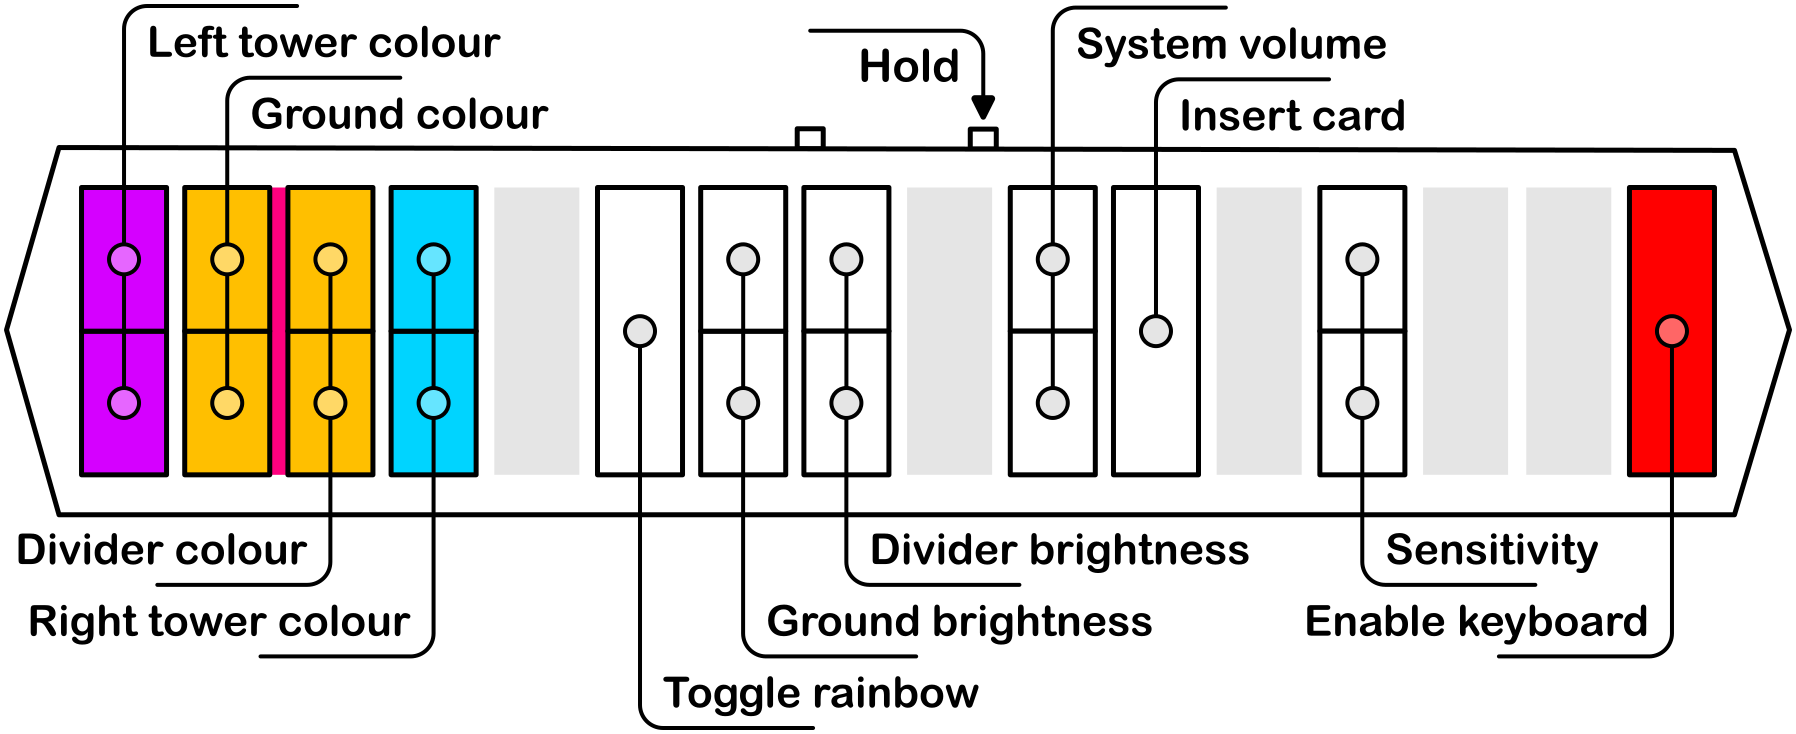
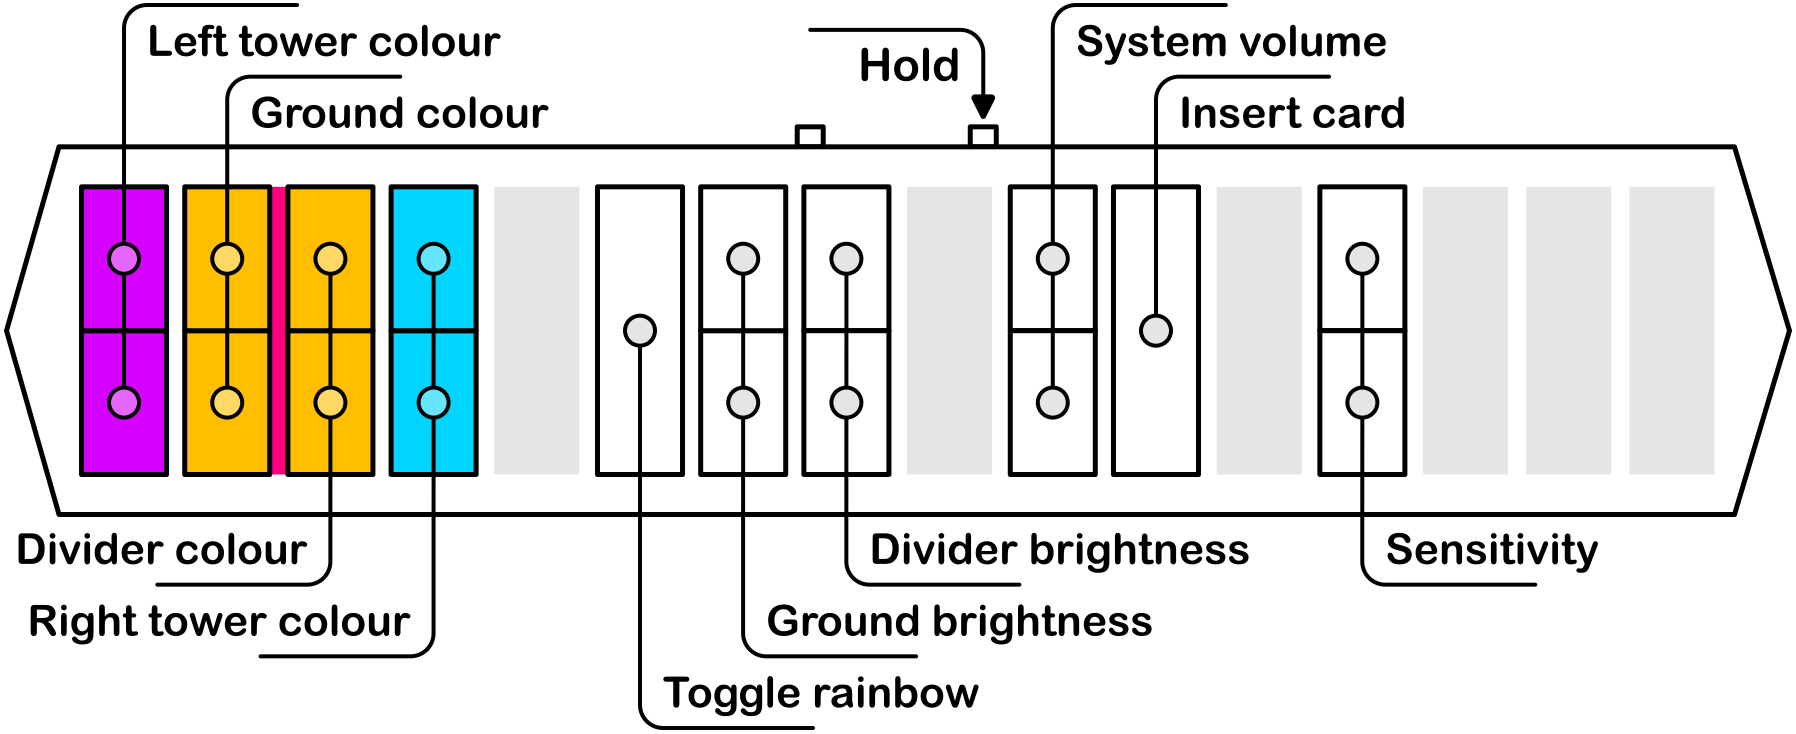
updated readme

diff --git a/README.md b/README.md
@@ -56,6 +56,12 @@ While holding FN1, the following configuration options are available:
 
 ※ "Insert card" will hold the Enter key for 5 seconds
 
+### HID keyboard settings
+
+Double-tapping FN1 will bring you to the HID keyboard settings, where the following configuration options are available:
+
+![](./docs/img/Graphic_Slider_Keyboard.png)
+
 ### Test menu
 
 To enter the system test menu, double-tap FN2. This will mirror the on-screen controls, and additionally adds controls for the TEST and SERVICE buttons on a real cabinet. Double-tap FN2 again to leave this mode on the controller (note that this is not synced with the game exiting the menu!).
@@ -67,10 +73,54 @@ To access the TEST and SERVICE buttons without entering the test menu, hold FN2 
 ![](./docs/img/Graphic_Slider_TestReduced.png)
 
 ## Keyboard Mapping
-When the HID keyboard is enabled, the following mapping (UMIGURI defaults) is used:
 
-![](./docs/img/Graphic_Slider_Binds.png)
+When the HID keyboard mode is enabled, these mappings are used for the various configuration options, with the airs mapped as `0OLP,.`:
 
-with the airs mapped as `0OLP,.`.
+### 32k (UMIGURI default)
 
-Please note that this is slightly different to stock firmware!
+![](./docs/img/Graphic_Slider_Binds32k.png)
+
+### 16k
+
+![](./docs/img/Graphic_Slider_Binds16k.png)
+
+### 8k
+
+![](./docs/img/Graphic_Slider_Binds8k.png)
+
+### 4k
+
+![](./docs/img/Graphic_Slider_Binds4k.png)
+
+### 9k
+
+![](./docs/img/Graphic_Slider_Binds9k.png)
+
+
+## Divider Options
+
+When the HID keyboard mode is enabled, these are the options for the dividers:
+
+### No divider
+
+![](./docs/img/Graphic_Slider_DividerNone.png)
+
+### Single divider
+
+![](./docs/img/Graphic_Slider_DividerSingle.png)
+
+### 4k divider
+
+![](./docs/img/Graphic_Slider_Divider4k.png)
+
+### 8k divider
+
+![](./docs/img/Graphic_Slider_Divider8k.png)
+
+### All dividers
+
+![](./docs/img/Graphic_Slider_DividerAll.png)
+
+### 9k divider
+
+![](./docs/img/Graphic_Slider_Divider9k.png)
